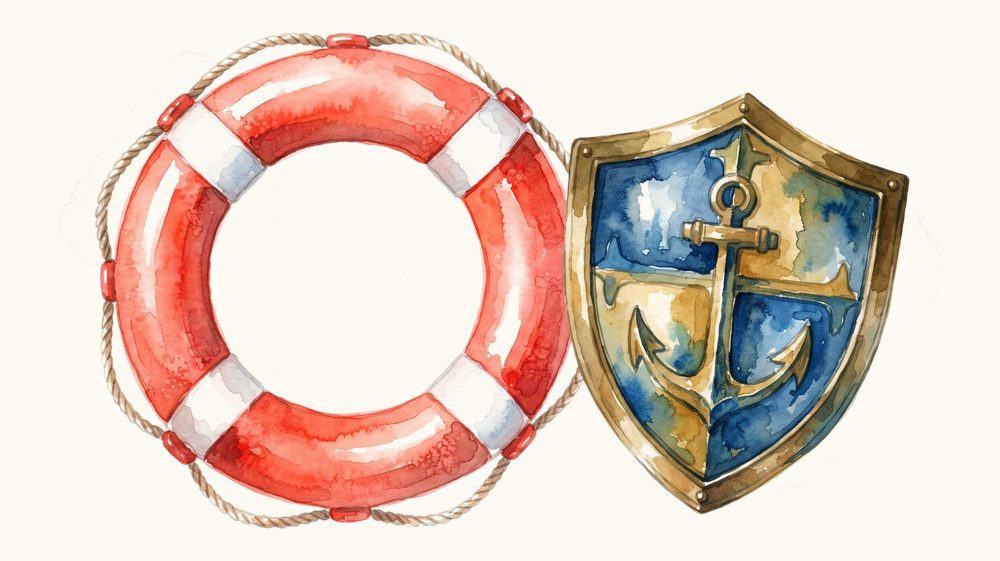
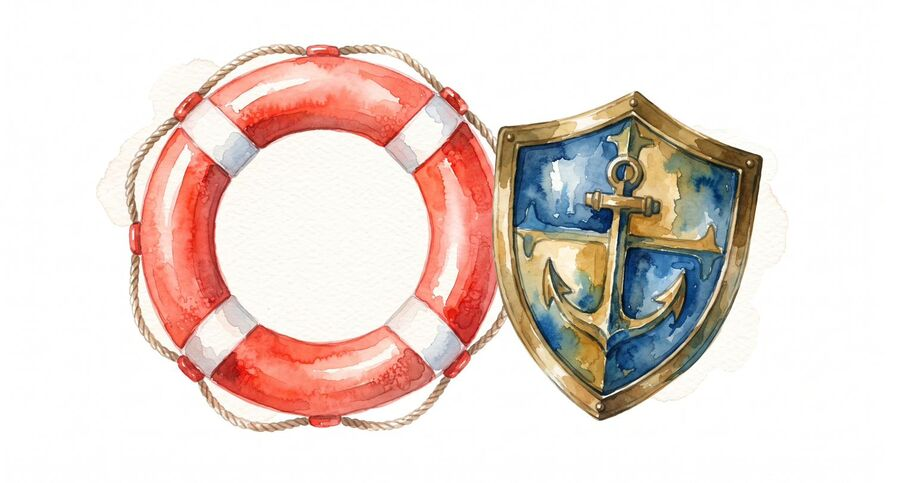
Add files via upload
העלאת הבאנר למעלה

diff --git a/index.html b/index.html
@@ -37,12 +37,9 @@
 
       <!-- הירו -->
       <section class="home-hero">
-        <div class="hero__art">
-          <picture>
-            <source srcset="assets/hero-house.webp" type="image/webp">
-            <img src="assets/hero-house.jpg" width="1200" height="1200" fetchpriority="high"
-                 alt="איור אקוורל: בית חם שממנו יוצאים פרויקטים, תוצרים ושיתופים מכל הלב — מהבית של חני בלוי">
-          </picture>
+        <div class="hero__art hero__art--banner">
+          <img src="assets/img/banner-main.jpg" width="1568" height="672" fetchpriority="high"
+               alt="עוגן של תקווה · חוף של כלים — מרחב של השראה, חוסן ועשייה חינוכית">
           <div class="hero__frame"></div>
         </div>
 
@@ -134,16 +131,6 @@
           <h2>רוצה להתייעץ?</h2>
           <p>מחפשים כלי לנושא מסוים? מתלבטים מה מתאים לכיתה? אני כאן.</p>
           <a class="btn-primary" href="https://wa.me/972545918770?text=%D7%A9%D7%9C%D7%95%D7%9D%20%D7%97%D7%A0%D7%99%2C%20%D7%94%D7%92%D7%A2%D7%AA%D7%99%20%D7%9E%D7%94%D7%90%D7%AA%D7%A8%20%D7%95%D7%90%D7%A9%D7%9E%D7%97%20%D7%9C%D7%94%D7%AA%D7%99%D7%99%D7%A2%D7%A5" target="_blank" rel="noopener">כתבו לי בוואטסאפ 💬</a>
-        </div>
-      </section>
-
-      <!-- הבאנר הראשי — עוגן של תקווה, חוף של כלים -->
-      <section class="section" style="padding-bottom:0">
-        <div class="hero__art" style="max-width:860px">
-          <img src="assets/img/banner-main.jpg" alt="עוגן של תקווה · חוף של כלים — מרחב של השראה, חוסן ועשייה חינוכית"
-               loading="lazy" decoding="async"
-               onerror="this.closest('section').remove()">
-          <div class="hero__frame"></div>
         </div>
       </section>
 

diff --git a/assets/app.css b/assets/app.css
@@ -563,6 +563,30 @@ select:focus-visible, textarea:focus-visible, [tabindex]:focus-visible {
 .tile__name { font-weight: 700; font-size: .95rem; line-height: 1.3; position: relative; z-index: 1; }
 .tile__count { font-size: .8rem; color: #7A6A60; position: relative; z-index: 1; }
 
+/* ---------- הירו: הבאנר הרוחבי "עוגן של תקווה" ---------- */
+.hero__art--banner { max-width: 880px; }
+
+/* ---------- קוביות אשכולות עם איור אקוורל ---------- */
+.tiles { grid-template-columns: repeat(auto-fill, minmax(215px, 1fr)); }
+.tile--art { padding: 0 12px 16px; }
+.tile__artwrap {
+  display: block; width: calc(100% + 24px); margin: 0 -12px 4px;
+  aspect-ratio: 1512 / 812; overflow: hidden;
+  border-radius: 19px 19px 0 0; position: relative; z-index: 1;
+  background: #FBF6ED;
+}
+.tile__art {
+  width: 100%; height: 100%; object-fit: cover; display: block;
+  transition: transform .45s cubic-bezier(.2,.9,.3,1);
+}
+.tile:hover .tile__art { transform: scale(1.045); }
+.tile--art .ico { display: none; }
+.tile--art.tile--noart { padding: 20px 12px 16px; }
+.tile--art.tile--noart .ico { display: flex; }
+@media (max-width: 560px) {
+  .tiles { grid-template-columns: repeat(auto-fill, minmax(150px, 1fr)); }
+}
+
 /* סקשן "רלוונטי עכשיו" */
 .now-strip { margin-top: 24px; }
 

diff --git a/assets/site.js b/assets/site.js
@@ -277,8 +277,11 @@
         tiles.innerHTML = groups.map(function (c) {
           var count = products.filter(function (p) { return H.clusterOf(p.domain) === c; }).length;
           if (!count) return '';
-          return '<a class="tile" href="maagar.html?cluster=' + c.slug + '"' +
+          return '<a class="tile tile--art" href="maagar.html?cluster=' + c.slug + '"' +
             ' style="--tile-wash:' + esc(H.watercolor(c, 1)) + '">' +
+            '<span class="tile__artwrap"><img class="tile__art" src="assets/img/cluster-' + c.slug + '.jpg"' +
+              ' alt="" loading="lazy" decoding="async"' +
+              ' onerror="var t=this.closest(\'.tile\');if(t)t.classList.add(\'tile--noart\');this.parentNode.removeChild(this)"></span>' +
             H.iconEl(c, 46, c.art, 'cluster-' + c.slug + '.png') +
             '<span class="tile__name">' + esc(c.name) + '</span>' +
             '<span class="tile__count">' + count + ' תוצרים</span>' +
